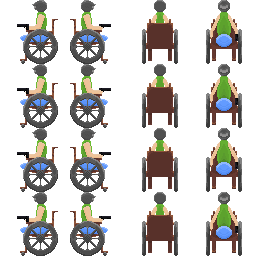
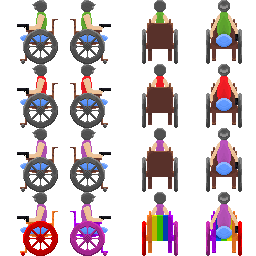
Character now changes colour when collecting armour

diff --git a/ConsoleApp1/GameOfDoom/CharacterGoD.cs b/ConsoleApp1/GameOfDoom/CharacterGoD.cs
@@ -29,6 +29,7 @@ namespace Shard.GameOfDoom
         private float _posX, _posY;
         private string _direction;
         private bool _isCollidingWithEnvironment = false;
+        private int armorLevel = 0;
 
         public CharacterGoD(float fXstart, float fYstart) {
             this.Transform.X = fXstart;
@@ -43,7 +44,7 @@ namespace Shard.GameOfDoom
             _firePower = 0;
             _armour = 0;
             _movementSpeed = 100;
-            animation = new SpriteSheetAnimation(this, "Character v2-Sheet.png", 64, 32, 1, 4);
+            animation = new SpriteSheetAnimation(this, "Character v3-Sheet.png", 64, 64, 4, 4);
             _direction = "left";
             //_inventory = new List<Item>();
             
@@ -56,7 +57,7 @@ namespace Shard.GameOfDoom
 
             setPhysicsEnabled();
             
-            MyBody.addRectCollider(16, 16, 128, 32);
+            MyBody.addRectCollider(16, 16, 128, 128);
             addTag("Player");
         }
 
@@ -179,25 +180,25 @@ namespace Shard.GameOfDoom
                 
                 if (_left)
                 {
-                    animation.changeSprite(0, 0);
+                    animation.changeSprite(0+armorLevel, 0);
                     this.Transform.translate(-1 * amount, 0);
                 }
 
                 if (_right)
                 {
-                    animation.changeSprite(0, 1);
+                    animation.changeSprite(0+armorLevel, 1);
                     this.Transform.translate(1 * amount, 0);
                 }
 
                 if (_up)
                 {
-                    animation.changeSprite(0, 2);
+                    animation.changeSprite(0+armorLevel, 2);
                     this.Transform.translate(0, -1 * amount);
                 }
 
                 if (_down)
                 {
-                    animation.changeSprite(0, 3);
+                    animation.changeSprite(0+armorLevel, 3);
                     this.Transform.translate(0, 1 * amount);
                 }
             }
@@ -213,7 +214,12 @@ namespace Shard.GameOfDoom
                 
             }
 
-            
+            if (x.Parent.checkTag("Armor"))
+            {
+                armorLevel += 1;
+                Console.Write("New armor level: " + armorLevel);
+            }
+
         }
 
         public override void onCollisionExit(PhysicsBody x)

diff --git a/ConsoleApp1/GameOfDoom/GameGOD.cs b/ConsoleApp1/GameOfDoom/GameGOD.cs
@@ -61,13 +61,15 @@ namespace Shard
         {
             Bootstrap.getInput().addListener(this);
 
-            //world = World.getInstance();
-            //world = new World();
+            world = World.getInstance();
 
-            Key key = new Key(300, 200);
+            //Key key = new Key(300, 200);
             //Weapon gun = new Weapon(64, 128);
-            Armor armor = new Armor(64, 192);
-            HealthPack helth = new HealthPack(64, 256);
+            Armor armor1 = new Armor(64, 192);
+            //Armor armor2 = new Armor(128, 192);
+            //Armor armor3 = new Armor(192, 192);
+            //HealthPack helth = new HealthPack(64, 256);
+
             Bootstrap.getSound().playMusic("examplemusic.wav", SDL.SDL_MIX_MAXVOLUME);
 
             

diff --git a/ConsoleApp1/GameOfDoom/Items/HealthPack.cs b/ConsoleApp1/GameOfDoom/Items/HealthPack.cs
@@ -8,7 +8,7 @@ namespace Shard.GameOfDoom
 {
     class HealthPack : Item
     {
-        public HealthPack(int posx, int posy) : base("healthpack", "HealthPack.png", 64, 64, posx, posy)
+        public HealthPack(int posx, int posy) : base("HealthPack", "HealthPack.png", 64, 64, posx, posy)
         {
         }
 

diff --git a/ConsoleApp1/GameOfDoom/Items/Weapon.cs b/ConsoleApp1/GameOfDoom/Items/Weapon.cs
@@ -8,7 +8,7 @@ namespace Shard.GameOfDoom
 {
     class Weapon : Item
     {
-        public Weapon(int posx, int posy) : base("weapon", "PH.png", 64, 64, posx, posy)
+        public Weapon(int posx, int posy) : base("Weapon", "PH.png", 64, 64, posx, posy)
         {
         }
 

diff --git a/ConsoleApp1/GameOfDoom/Items/Armor.cs b/ConsoleApp1/GameOfDoom/Items/Armor.cs
@@ -8,7 +8,7 @@ namespace Shard.GameOfDoom
 {
     class Armor : Item
     {
-        public Armor(int posx, int posy) : base("armor", "PH.png", 64, 64, posx, posy)
+        public Armor(int posx, int posy) : base("Armor", "Armor.png", 64, 64, posx, posy)
         {
         }
 

diff --git a/ConsoleApp1/GameOfDoom/Items/Bomb.cs b/ConsoleApp1/GameOfDoom/Items/Bomb.cs
@@ -8,7 +8,7 @@ namespace Shard.GameOfDoom
 {
     class Bomb : Item
     {
-        public Bomb(int posx, int posy) : base("bomb", "PH.png", 64, 64, posx, posy)
+        public Bomb(int posx, int posy) : base("Bomb", "PH.png", 64, 64, posx, posy)
         {
         }
 

diff --git a/ConsoleApp1/GameOfDoom/Items/Key.cs b/ConsoleApp1/GameOfDoom/Items/Key.cs
@@ -8,7 +8,7 @@ namespace Shard.GameOfDoom
 {
     class Key : Item
     {
-        public Key(int posx, int posy) : base("key", "Key.png", 64, 64, posx, posy)
+        public Key(int posx, int posy) : base("Key", "Key.png", 64, 64, posx, posy)
         {
         }
 
